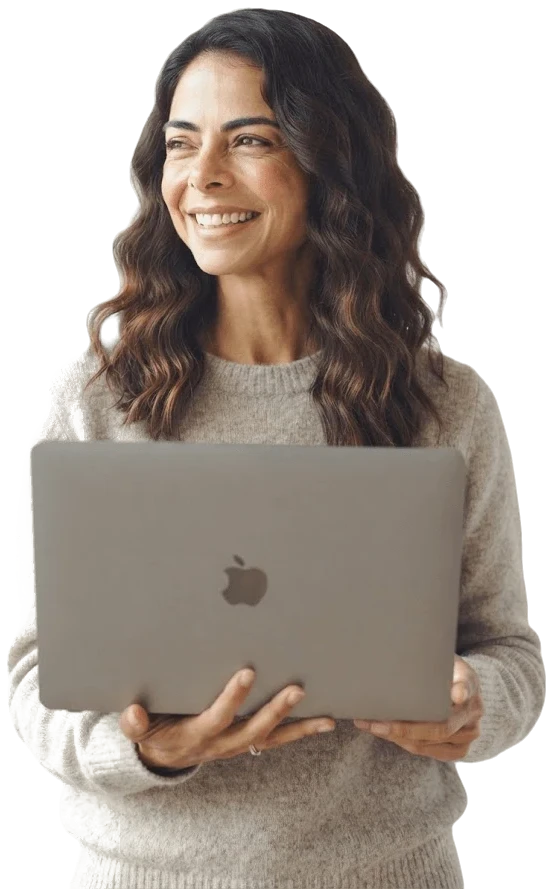
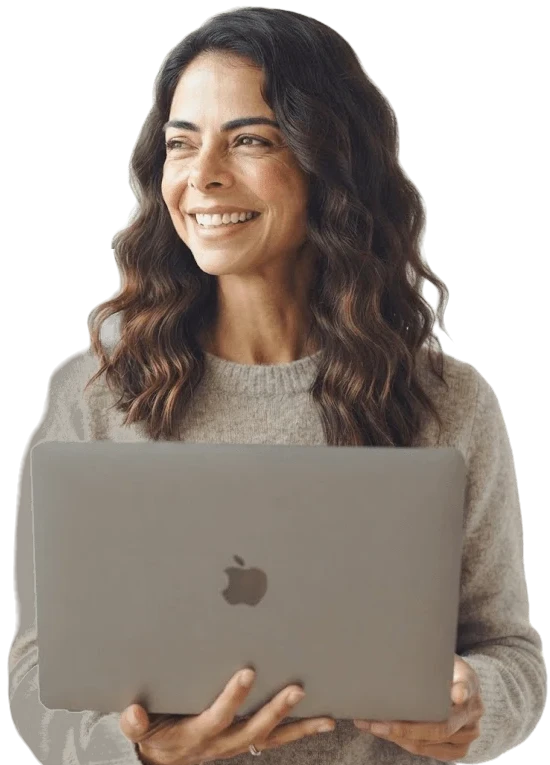
fix(landing): clean hero portrait cut-out and crop it under the hands
- The blurred right sleeve was semi-transparent in the cut-out; it is now
  opaque, tinted with the sweater tone and with a tighter edge.
- The portrait is cropped right under the hands and shown ~20% larger,
  so it ends at the hero edge without the empty sweater band.

Claude-Session: https://claude.ai/code/session_01EPGmCJigWJxBLjJGvnSRvK

diff --git a/src/components/AardvarkHero.tsx b/src/components/AardvarkHero.tsx
@@ -80,7 +80,7 @@ export function AardvarkHero({ onPrimaryCta, onExploreSessions }: AardvarkHeroPr
             referencia): un arco detrás, el bloque del logo asomando por
             encima del hombro y la cabeza rompiendo el borde del arco. La foto
             se corta contra el borde inferior del encabezado. */}
-        <div className="relative z-10 flex-1 min-h-[280px] w-full mt-[calc(var(--u)*24)] lg:absolute lg:mt-0 lg:min-h-0 lg:inset-y-0 lg:right-[calc(var(--u)*240)] lg:w-[calc(var(--u)*640)]">
+        <div className="relative z-10 flex-1 min-h-[280px] w-full mt-[calc(var(--u)*24)] lg:absolute lg:mt-0 lg:min-h-0 lg:inset-y-0 lg:right-[calc(var(--u)*260)] lg:w-[calc(var(--u)*640)]">
           <div
             aria-hidden="true"
             className="absolute bottom-0 right-[6%] w-[64%] h-[72%] lg:right-[6%] lg:w-[88%] lg:h-[62%] rounded-t-full bg-[#777ae3]"
@@ -101,7 +101,7 @@ export function AardvarkHero({ onPrimaryCta, onExploreSessions }: AardvarkHeroPr
             height={HERO.person.height}
             fetchPriority="high"
             draggable={false}
-            className="absolute bottom-0 right-[12%] h-[96%] lg:right-auto lg:left-1/2 lg:-translate-x-1/2 lg:h-[calc(100%-var(--u)*200)] w-auto max-w-none select-none"
+            className="absolute bottom-0 right-[12%] h-[96%] lg:right-auto lg:left-1/2 lg:-translate-x-1/2 lg:h-[calc(100%-var(--u)*170)] w-auto max-w-none select-none"
           />
 
           {/* Stickers: horario (dato clave) y un mensaje corto */}

diff --git a/src/content/landing.ts b/src/content/landing.ts
@@ -68,11 +68,12 @@ export const HERO = {
   // Nota manuscrita del largo de la de referencia ("Shipping to the USA & Canada").
   note: `${PROGRAM.priceCOP} o ${PROGRAM.priceUSD}`,
   // Persona recortada: imagen aportada por el equipo, volteada para que mire
-  // hacia el título, con el fondo quitado por un modelo local.
+  // hacia el título, con el fondo quitado por un modelo local, la manga
+  // desenfocada rellenada con el tono del suéter y cortada bajo las manos.
   person: {
     src: '/assets/hero/persona-laptop.webp',
     width: 550,
-    height: 889,
+    height: 765,
     alt: 'Mujer sonriente sostiene su portátil y mira hacia el título',
   },
   stickerSchedule: `En vivo · ${PROGRAM.scheduleShort} · desde el ${PROGRAM.startDateShort}`,
